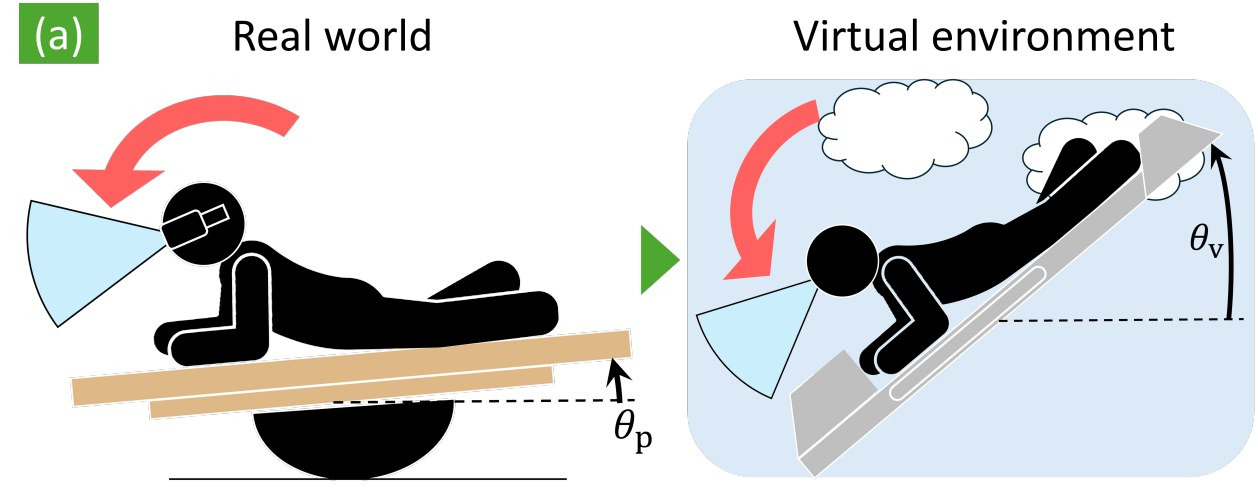
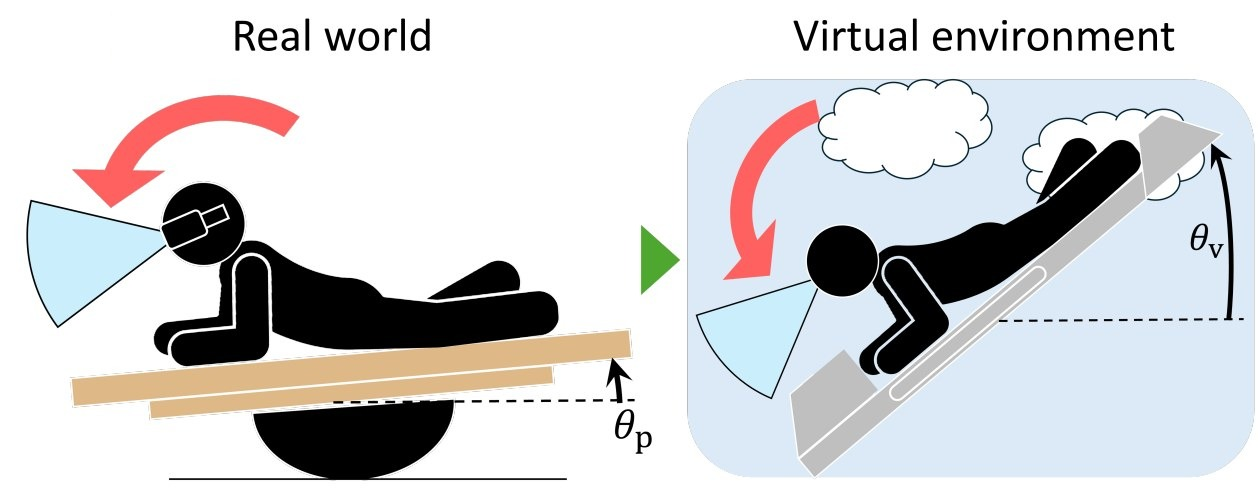
図のパネル記号を除き、論文欄の間隔を空ける

Changed region(s): [[0.0, 0.0, 0.093, 0.15]]

diff --git a/docs/index.html b/docs/index.html
@@ -59,7 +59,8 @@ ul.tight,ol.tight{margin:6px 0;padding-left:1.3em}
 ul.tight li,ol.tight li{margin:3px 0}
 .note{font-size:14px;color:var(--sub)}
 .pill{display:inline-block;background:var(--soft);color:var(--accent);border-radius:6px;padding:1px 8px;font-size:13px;margin:2px 4px 2px 0}
-.pub{margin:0 0 14px}
+.pub{margin:0 0 18px}
+.pub+.pub{padding-top:16px;border-top:1px solid var(--line, #dde3ec)}
 .pub b{display:block}
 footer{padding:36px 0 56px;color:var(--sub);font-size:13px}
 </style>
@@ -198,7 +199,7 @@ footer{padding:36px 0 56px;color:var(--sub);font-size:13px}
 
 <footer><div class="wrap">
   <p>ソースコードは研究室管理のため公開していません。</p>
-  <p>図と写真は上記VRST 2026論文（© 2026 the authors, <a href="https://creativecommons.org/licenses/by/4.0/">CC BY 4.0</a>）のFigure 1・2から引用しました（一部を切り出して掲載）。VR空間には Skybox Series Free（Avionx）と Fantastic City Generator（MasterPixel3D）を使用しています（Standard Unity Asset Store EULA）。</p>
+  <p>図と写真は上記VRST 2026論文（© 2026 the authors, <a href="https://creativecommons.org/licenses/by/4.0/">CC BY 4.0</a>）のFigure 1・2から引用しました（一部を切り出し、パネル記号を除いて掲載）。VR空間には Skybox Series Free（Avionx）と Fantastic City Generator（MasterPixel3D）を使用しています（Standard Unity Asset Store EULA）。</p>
 </div></footer>
 
 </body>
